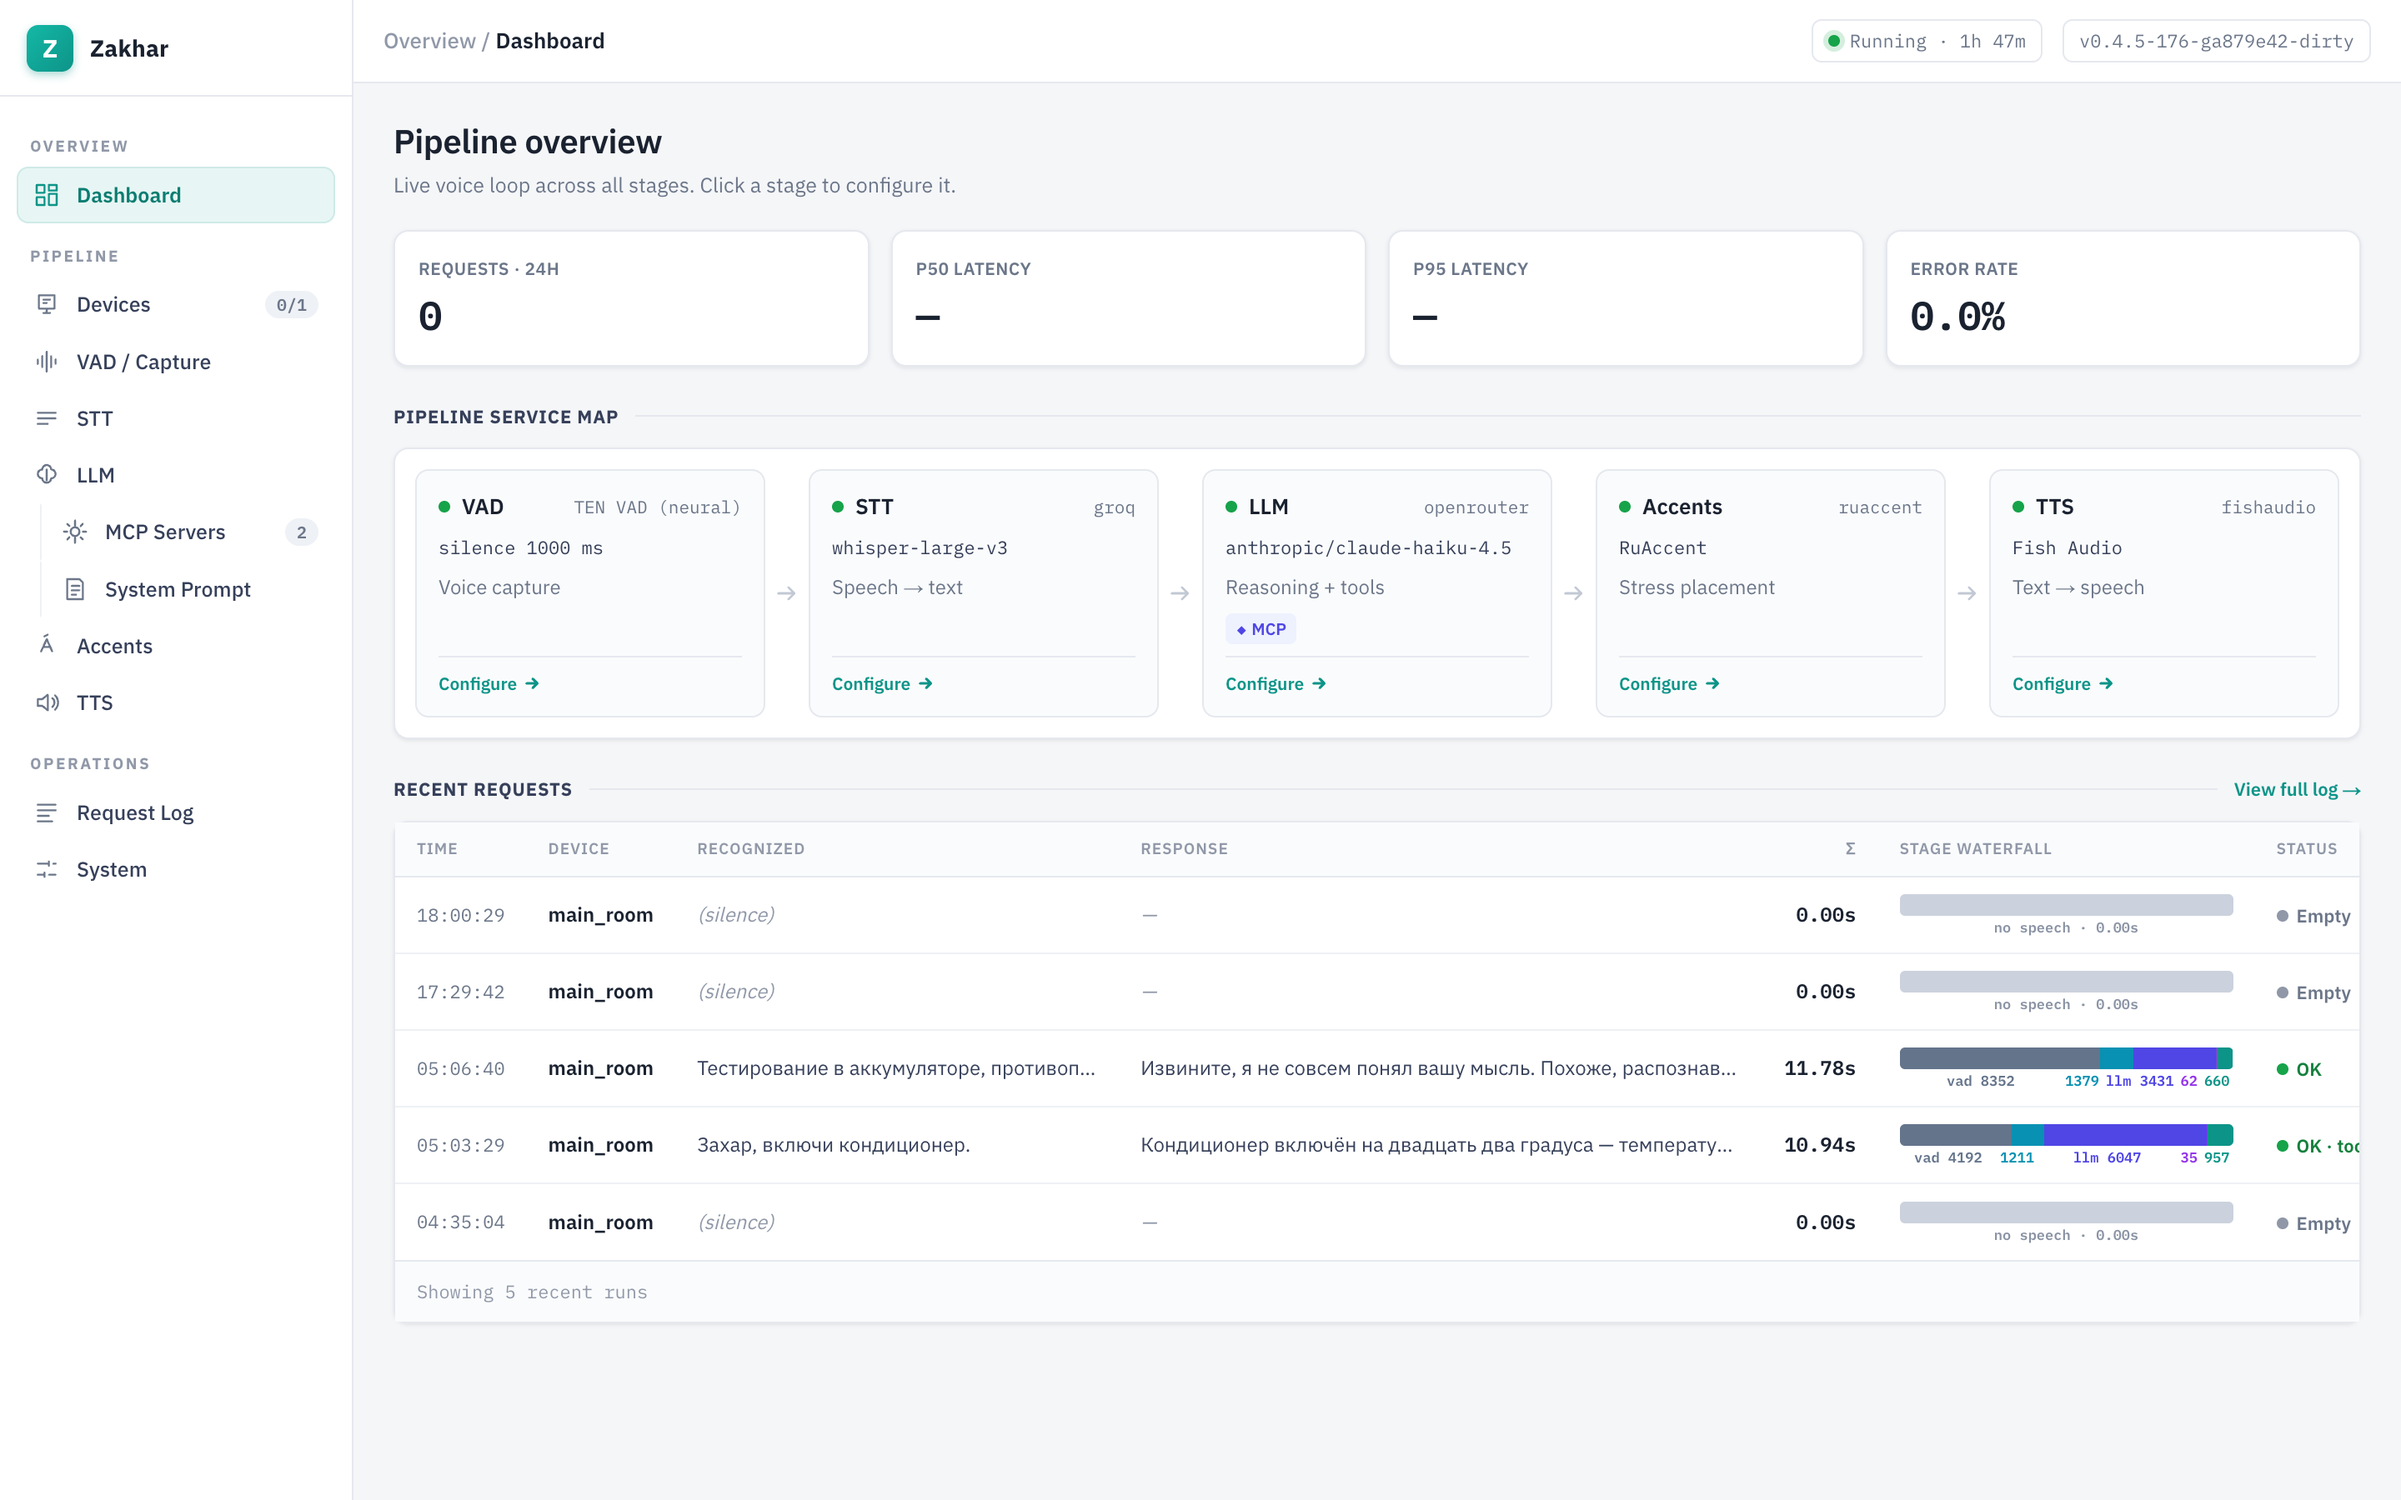
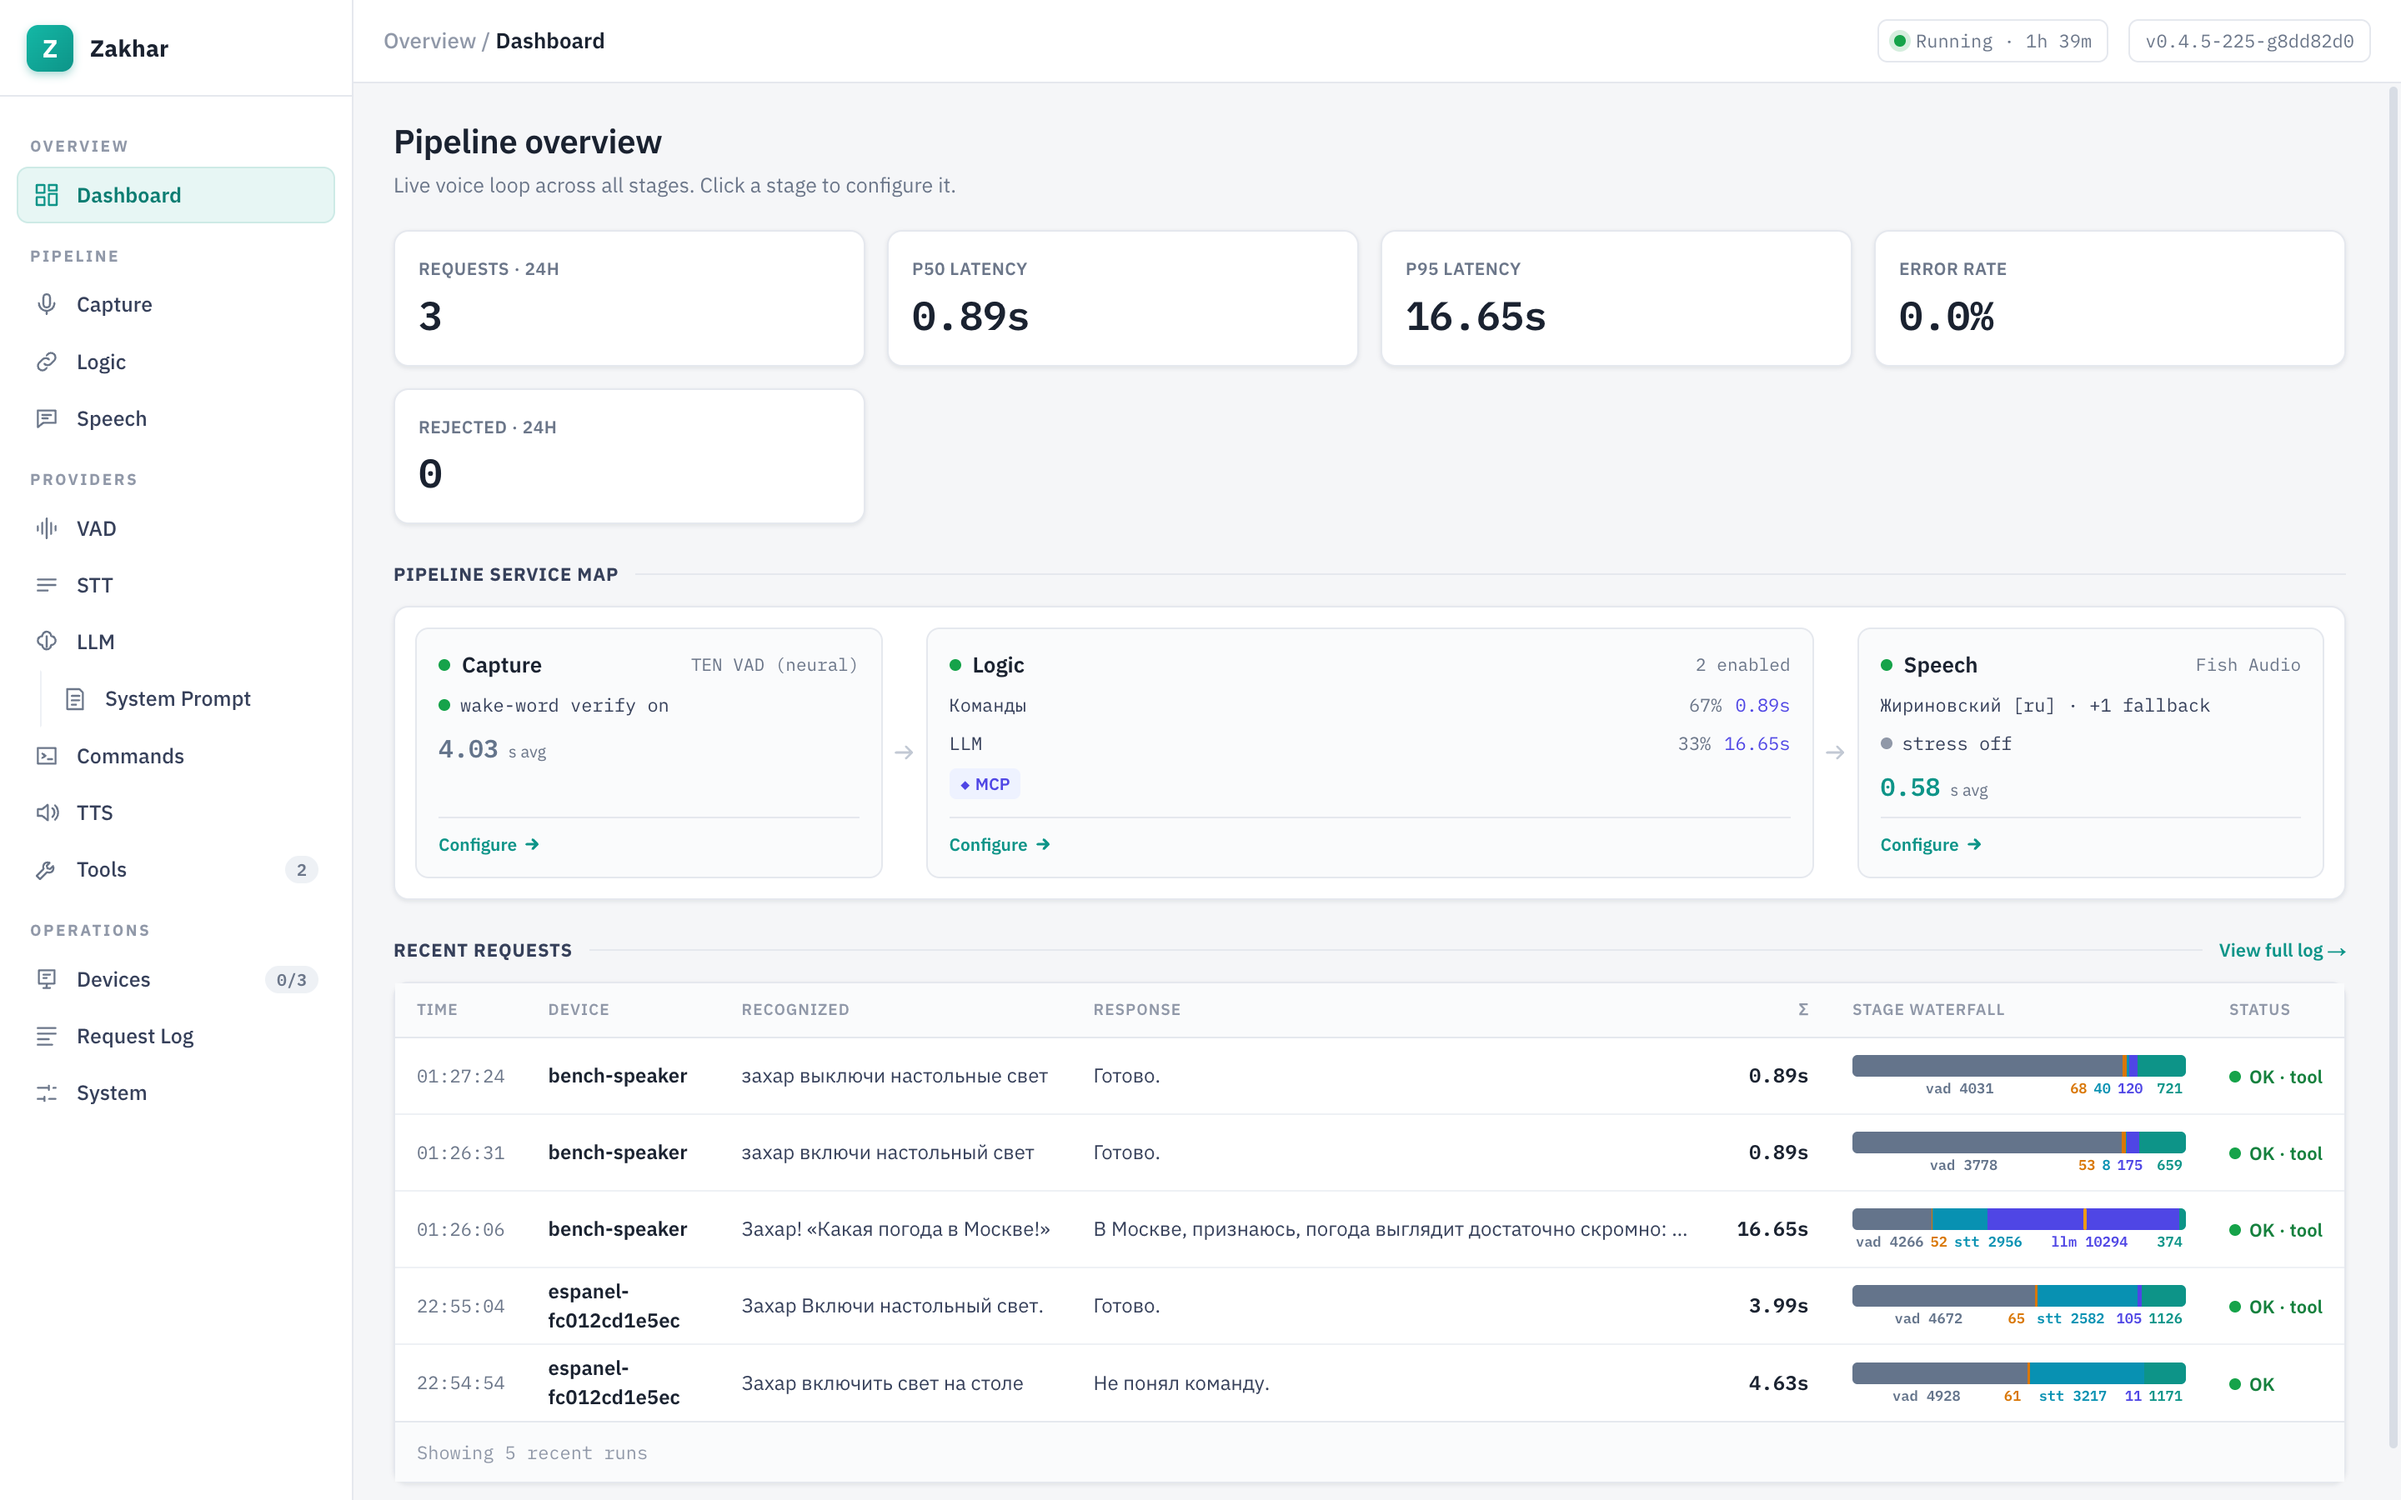
docs(readme): Capture -> Logic -> Speech map and fresh panel screenshots

diff --git a/README.ru.md b/README.ru.md
@@ -24,7 +24,7 @@ Node-RED через node-red-contrib-mcp-server), настроенному в `c
 
 ### Дашборд — обзор конвейера
 
-Карта сервисов по стадиям (VAD → STT → LLM → Accents → TTS) с живыми метриками и
+Карта трёх шагов конвейера (Capture → Logic → Speech) с живыми метриками и
 последними запросами.
 
 ![Dashboard](docs/screenshots/dashboard.png)

diff --git a/README.md b/README.md
@@ -22,8 +22,8 @@ pipeline overview, a searchable request log, and a per-run drill-down.
 
 ### Dashboard — pipeline overview
 
-Stage-by-stage service map (VAD → STT → LLM → Accents → TTS) with live metrics and the
-most recent requests.
+Service map of the three pipeline steps (Capture → Logic → Speech) with live metrics and
+the most recent requests.
 
 ![Dashboard](docs/screenshots/dashboard.png)
 
